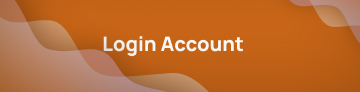
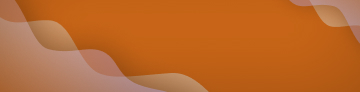
On branch main  Your branch is up to date with 'origin/main'.  Changes to be committed: 	modified:   images/headerLogin.jpg 	modified:   lib/main.dart 	modified:   lib/sign_screen.dart 	modified:   lib/signin.dart 	modified:   lib/signup.dart

Changed region(s): [[0.275, 0.3913, 0.6722, 0.6087]]

diff --git a/lib/signin.dart b/lib/signin.dart
@@ -12,43 +12,106 @@ class _SignInState extends State<SignIn> {
   @override
   Widget build(BuildContext context) {
     return Scaffold(
-      appBar: AppBar(
+      appBar: PreferredSize(
+        preferredSize: const Size.fromHeight(92),
+        child: AppBar(
+          flexibleSpace: const Image(
+            image: AssetImage('images/headerLogin.jpg'),
+            fit: BoxFit.cover,
+          ),
           title: const Text(
-        'Login Account',
-      )),
-      body: Center(
-        child: Column(
-          mainAxisAlignment: MainAxisAlignment.center,
-          children: <Widget>[
-            TextFormField(
-              decoration: const InputDecoration(
-                labelText: 'Username',
-              ),
+            'Login Account',
+            textAlign: TextAlign.center,
+            style: TextStyle(
+              fontFamily: 'Poppins',
+              fontSize: 20,
+              fontWeight: FontWeight.bold,
+              color: Colors.white,
             ),
-            TextFormField(
-              decoration: const InputDecoration(
-                labelText: 'Password',
-              ),
-              obscureText: true,
-            ),
-            MaterialButton(child: const Text('Sign In'), onPressed: () {}),
-            GestureDetector(
-              onTap: () {
-                Navigator.push(context, MaterialPageRoute(builder: (context) {
-                  return const SignUp();
-                }));
-              },
-              child: const Text(
-                'Belum Punya Akun?',
-                style: TextStyle(
-                    fontSize: 20,
-                    color: Colors.orange,
-                    fontFamily: 'Poppinss',
-                    fontWeight: FontWeight.normal),
-              ),
-            ),
-          ],
+          ),
+          centerTitle: true,
         ),
+      ),
+      body: Column(
+        mainAxisAlignment: MainAxisAlignment.spaceEvenly,
+        children: <Widget>[
+          const Row(
+            mainAxisAlignment: MainAxisAlignment.center,
+            children: <Widget>[
+              Text(
+                'Sign In',
+                style: TextStyle(
+                  fontFamily: 'Poppins',
+                  fontSize: 20,
+                  fontWeight: FontWeight.normal,
+                  color: Colors.orange,
+                ),
+              ),
+            ],
+          ),
+          TextFormField(
+            decoration: const InputDecoration(
+              contentPadding: EdgeInsets.all(20.0),
+              labelText: 'Username',
+              labelStyle: TextStyle(
+                fontFamily: 'Poppins',
+                fontSize: 15,
+              )
+            ),
+          ),
+          TextFormField(
+            decoration: const InputDecoration(
+              contentPadding: EdgeInsets.all(20.0),
+              labelText: 'Password',
+              labelStyle: TextStyle(
+                fontFamily: 'Poppins',
+                fontSize: 15,
+              )
+            ),
+            obscureText: true,
+          ),
+          SizedBox(
+                  width: 280,
+                  height: 60,
+                  child: ElevatedButton(
+                    onPressed: () {
+                      Navigator.push(context,
+                        MaterialPageRoute(builder: (context) {
+                      return const SignIn();
+                    }));
+                    },
+                    style: ElevatedButton.styleFrom(
+                        primary: Colors.amber[900],
+                        onPrimary: Colors.white,
+                        shape: RoundedRectangleBorder(
+                          borderRadius: BorderRadius.circular(30),
+                        )),
+                    child: const Text(
+                      'Sign in',
+                      style: TextStyle(
+                        fontSize: 20,
+                        fontFamily: 'Poppins',
+                        fontWeight: FontWeight.bold,
+                      ),
+                    ),
+                  ),
+                ),
+          GestureDetector(
+            onTap: () {
+              Navigator.push(context, MaterialPageRoute(builder: (context) {
+                return const SignUp();
+              }));
+            },
+            child: const Text(
+              'Belum Punya Akun?',
+              style: TextStyle(
+                  fontSize: 20,
+                  color: Colors.purple,
+                  fontFamily: 'Poppinss',
+                  fontWeight: FontWeight.normal),
+            ),
+          ),
+        ],
       ),
     );
   }

diff --git a/lib/signup.dart b/lib/signup.dart
@@ -10,6 +10,109 @@ class SignUp extends StatefulWidget {
 class _SignUpState extends State<SignUp> {
   @override
   Widget build(BuildContext context) {
-    return const Scaffold();
+    return Scaffold(
+      appBar: PreferredSize(
+        preferredSize: const Size.fromHeight(92),
+        child: AppBar(
+          flexibleSpace: const Image(
+            image: AssetImage('images/headerLogin.jpg'),
+            fit: BoxFit.cover,
+          ),
+          title: const Text(
+            'Create Account',
+            textAlign: TextAlign.center,
+            style: TextStyle(
+              fontFamily: 'Poppins',
+              fontSize: 20,
+              fontWeight: FontWeight.bold,
+              color: Colors.white,
+            ),
+          ),
+          centerTitle: true,
+        ),
+      ),
+      body: Expanded(
+        child: SingleChildScrollView(
+          child: Column(
+          children: <Widget>[
+            SizedBox(
+              height: 50,
+            ),
+            const Row(
+              mainAxisAlignment: MainAxisAlignment.center,
+              children: <Widget>[
+                Text(
+                  'Sign Up',
+                  style: TextStyle(
+                    fontFamily: 'Poppins',
+                    fontSize: 20,
+                    fontWeight: FontWeight.normal,
+                    color: Colors.orange,
+                  ),
+                ),
+              ],
+            ),
+            SizedBox(
+              height: 50,
+            ),
+            TextFormField(
+              decoration: const InputDecoration(
+                  contentPadding: EdgeInsets.all(20.0),
+                  labelText: 'Username',
+                  labelStyle: TextStyle(
+                    fontFamily: 'Poppins',
+                    fontSize: 15,
+                  )),
+            ),
+            TextFormField(
+              decoration: const InputDecoration(
+                  contentPadding: EdgeInsets.all(20.0),
+                  labelText: 'Password',
+                  labelStyle: TextStyle(
+                    fontFamily: 'Poppins',
+                    fontSize: 15,
+                  )),
+              obscureText: true,
+            ),
+            TextFormField(
+              decoration: const InputDecoration(
+                  contentPadding: EdgeInsets.all(20.0),
+                  labelText: 'Ulangi Password',
+                  labelStyle: TextStyle(
+                    fontFamily: 'Poppins',
+                    fontSize: 15,
+                  )),
+              obscureText: true,
+            ),
+            SizedBox(
+              height: 100,
+            ),
+            SizedBox(
+              width: 280,
+              height: 60,
+              child: ElevatedButton(
+                onPressed: () {},
+                style: ElevatedButton.styleFrom(
+                    primary: Colors.amber[900],
+                    onPrimary: Colors.white,
+                    shape: RoundedRectangleBorder(
+                      borderRadius: BorderRadius.circular(30),
+                    )),
+                child: const Text(
+                  'Sign Up',
+                  style: TextStyle(
+                    fontSize: 20,
+                    fontFamily: 'Poppins',
+                    fontWeight: FontWeight.bold,
+                  ),
+                ),
+              ),
+            ),
+          ],
+        ),
+        )
+        
+      ),
+    );
   }
 }

diff --git a/lib/sign_screen.dart b/lib/sign_screen.dart
@@ -41,6 +41,12 @@ class SignScreen extends StatelessWidget {
                       return const SignIn();
                     }));
                     },
+                    style: ElevatedButton.styleFrom(
+                        primary: Colors.amber[900],
+                        onPrimary: Colors.white,
+                        shape: RoundedRectangleBorder(
+                          borderRadius: BorderRadius.circular(30),
+                        )),
                     child: const Text(
                       'Sign in',
                       style: TextStyle(
@@ -49,12 +55,6 @@ class SignScreen extends StatelessWidget {
                         fontWeight: FontWeight.bold,
                       ),
                     ),
-                    style: ElevatedButton.styleFrom(
-                        primary: Colors.amber[900],
-                        onPrimary: Colors.white,
-                        shape: RoundedRectangleBorder(
-                          borderRadius: BorderRadius.circular(30),
-                        )),
                   ),
                 ),
               ],
@@ -89,6 +89,11 @@ class SignScreen extends StatelessWidget {
                       return const SignUp();
                     }));
                   },
+                  style: OutlinedButton.styleFrom(
+                      primary: Colors.purple,
+                      shape: RoundedRectangleBorder(
+                        borderRadius: BorderRadius.circular(30),
+                      )),
                   child: const Text(
                     'Sign Up',
                     style: TextStyle(
@@ -97,12 +102,7 @@ class SignScreen extends StatelessWidget {
                       fontWeight: FontWeight.bold,
                       color: Colors.purple,
                     ),
-                  ),
-                  style: OutlinedButton.styleFrom(
-                      primary: Colors.purple,
-                      shape: RoundedRectangleBorder(
-                        borderRadius: BorderRadius.circular(30),
-                      ))),
+                  )),
             ),
           ],
         ),

diff --git a/lib/main.dart b/lib/main.dart
@@ -1,5 +1,8 @@
 import 'package:flutter/material.dart';
 import 'package:project_volturi/sign_screen.dart';
+import 'package:project_volturi/signin.dart';
+import 'package:project_volturi/signup.dart';
+
 
 void main() {
   runApp(const MyApp());
@@ -32,7 +35,7 @@ class MyApp extends StatelessWidget {
         colorScheme: ColorScheme.fromSeed(seedColor: Colors.deepPurple),
         useMaterial3: true,
       ),
-      home: const IntroScreen(),
+      home: const SignIn(),
     );
   }
 }
